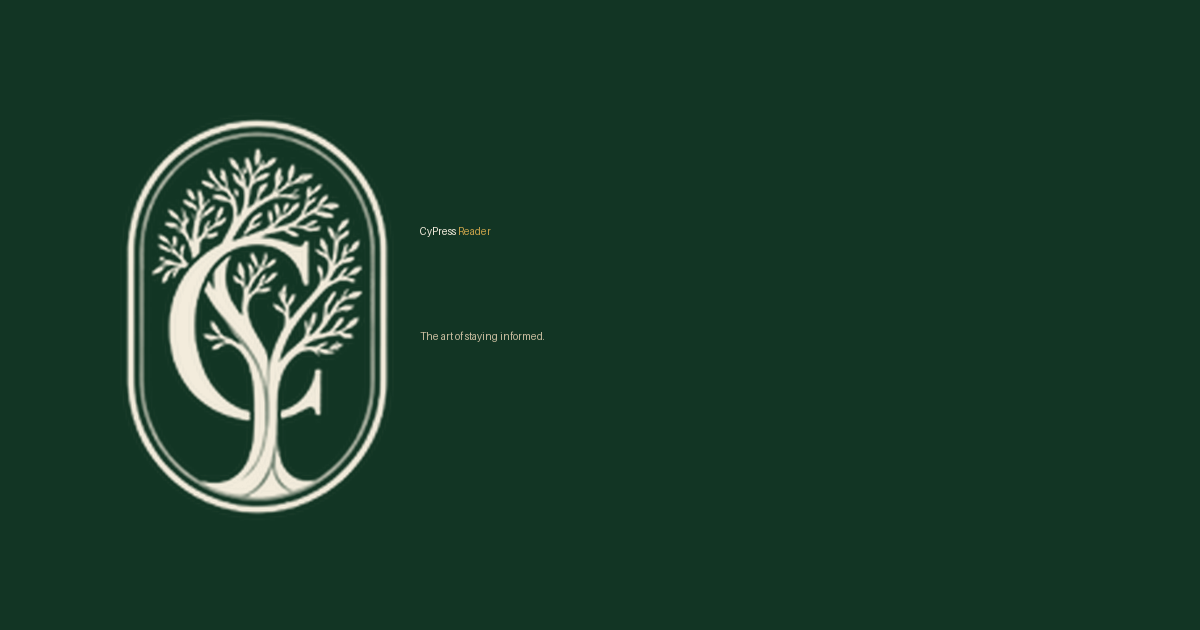
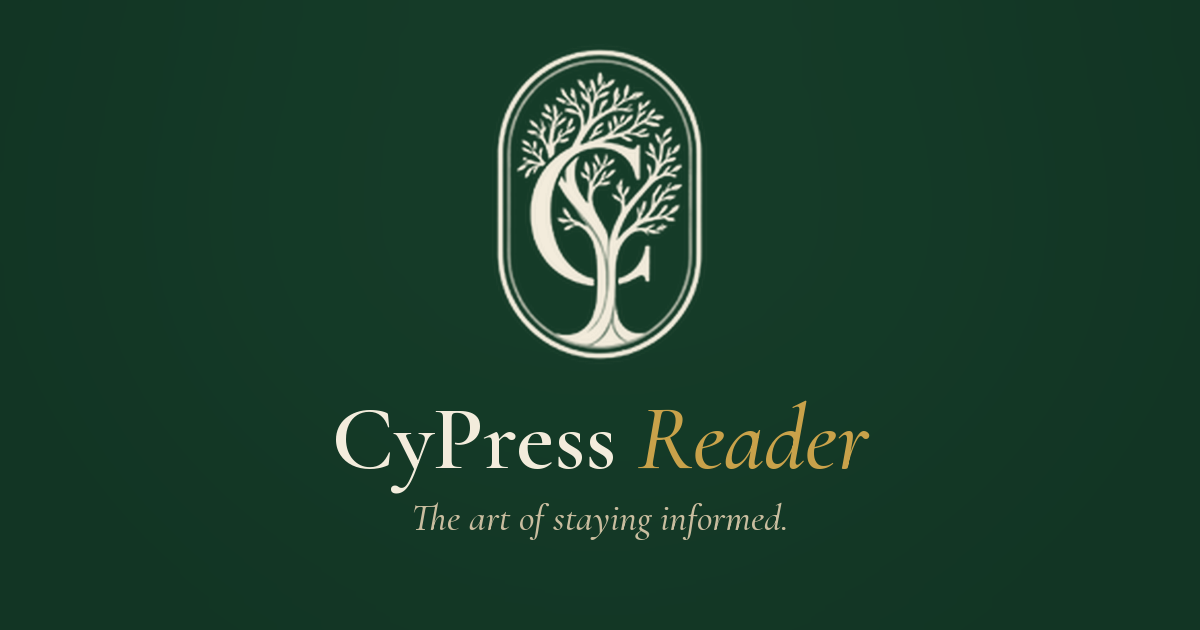
Link preview: centred tree badge with the name and slogan underneath (and a cache-busting address)
Claude-Session: https://claude.ai/code/session_01TFu2ijmAoanUQqgRKu6dZt

Changed region(s): [[0.0925, 0.0603, 0.7092, 0.8143], [0.3392, 0.7841, 0.6475, 0.8444]]

diff --git a/docs/index.html b/docs/index.html
@@ -4,8 +4,8 @@
 <title>CyPress Reader: the art of staying informed</title>
 <meta name="description" content="The art of staying informed. CyPress Reader is a magazine-style news reader for Android and the web. Add the sites you follow and read them as one front page, with a clear ending.">
 <link rel="canonical" href="https://cypressreader.com/">
-<meta property="og:title" content="CyPress Reader: the art of staying informed"><meta property="og:description" content="A magazine-style news reader for Android and the web. Add the sites you follow and read them as one front page."><meta property="og:image" content="https://cypressreader.com/og.png"><meta property="og:type" content="website"><meta property="og:url" content="https://cypressreader.com/">
-<meta name="twitter:card" content="summary_large_image"><meta name="theme-color" content="#123524">
+<meta property="og:title" content="CyPress Reader: the art of staying informed"><meta property="og:description" content="A magazine-style news reader for Android and the web. Add the sites you follow and read them as one front page."><meta property="og:image" content="https://cypressreader.com/og.png?v=2"><meta property="og:image:width" content="1200"><meta property="og:image:height" content="630"><meta property="og:image:alt" content="The CyPress Reader tree badge above the words CyPress Reader and the slogan, The art of staying informed."><meta property="og:type" content="website"><meta property="og:url" content="https://cypressreader.com/">
+<meta name="twitter:card" content="summary_large_image"><meta name="twitter:image" content="https://cypressreader.com/og.png?v=2"><meta name="theme-color" content="#123524">
 <link rel="icon" href="logo.png"><link rel="apple-touch-icon" href="app/icon-192.png">
 <link rel="stylesheet" href="fonts.css">
 <script>document.documentElement.className+=' js'</script>
